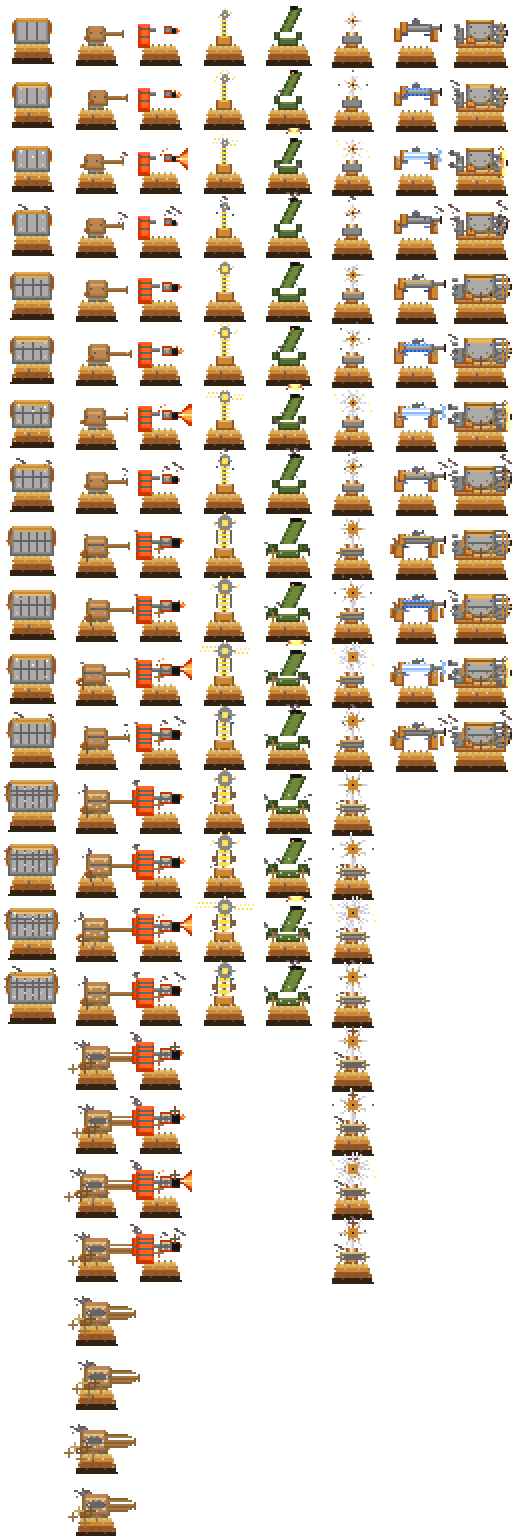
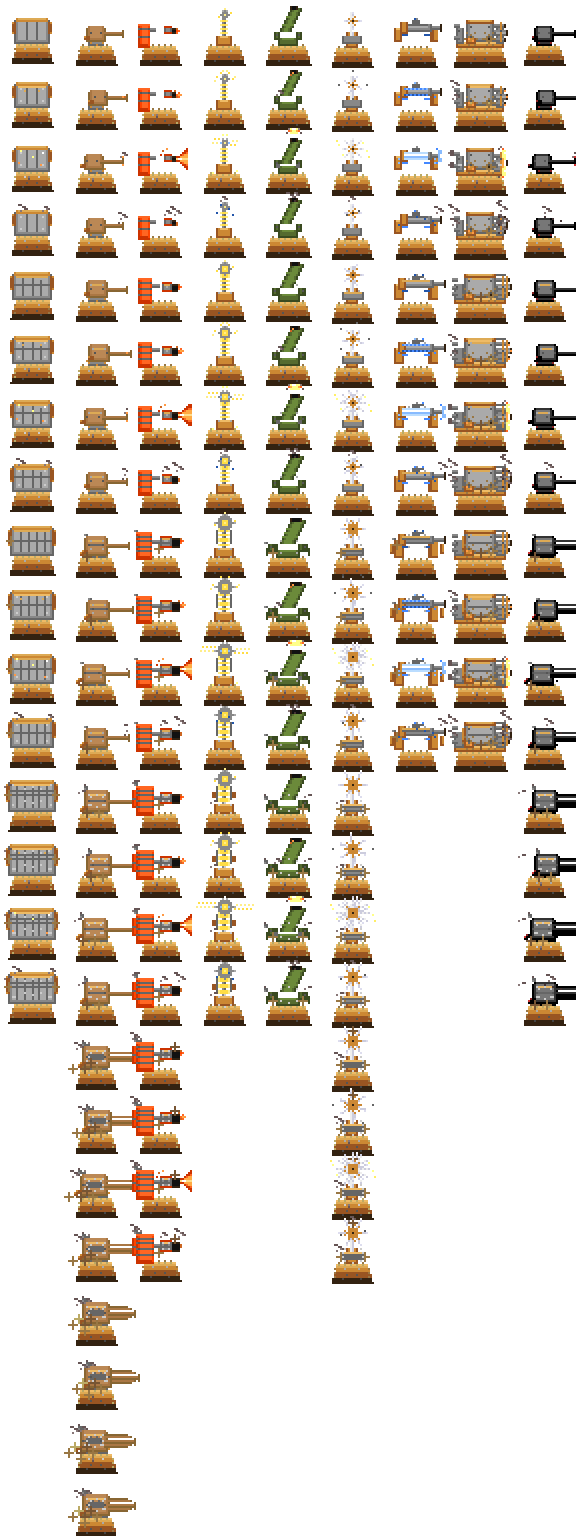
Generate Piercer sprite: black-barrel turret variant
Programmatic art for the mech_piercer (Turret L2 AP branch). Same
silhouette as the Turret but with blackened barrel, dark steel
housing, and red-hot muzzle ring at L2+. 4 levels (tower L2-L5).

Regenerated mechanical_towers.png as 9 columns (was 8); expanded
the gilded and factory_fresh skin variants with the piercer column
(black art is skin-neutral).

diff --git a/mechanical_sprites.tsx b/mechanical_sprites.tsx
@@ -153,8 +153,8 @@ function mSteam(p:any,x:number,y:number,size:number){
 }
 
 // ===== TOWER LEVEL DATA =====
-// levels per tower: Wall=4, Turret=6, Flamethrower=5, Tesla=4, Mortar=4, Shredder=5, Railgun=3, Titan=3
-const T_LEVELS=[4,6,5,4,4,5,3,3];
+// levels per tower: Wall=4, Turret=6, Flamethrower=5, Tesla=4, Mortar=4, Shredder=5, Railgun=3, Titan=3, Piercer=4
+const T_LEVELS=[4,6,5,4,4,5,3,3,4];
 const T_MAX_LVL=6; // max across all towers → rows = T_MAX_LVL * 4 states = 24
 const T_ROWS_PER_LVL=4;
 const T_ROWS=T_MAX_LVL*T_ROWS_PER_LVL; // 24 rows total
@@ -740,11 +740,74 @@ export function drawTowers(ctx:CanvasRenderingContext2D){
         p(turX+2,turY+turH-2,C.DKSTL);p(turX+turW-3,turY+turH-2,C.DKSTL);
       }
     },
+    // 8: Piercer — Black-barrel armor-piercing turret (Turret L2 branch).
+    // Same silhouette as the Turret, but the barrel and accents are
+    // blackened steel instead of warm brown. Grows more menacing
+    // with level: longer black barrel, red-hot muzzle ring at L3+.
+    (c:any,o:number[],s:number,lvl:number)=>{const{p,b}=mk(c,o,T_G,T_G,T_PX);
+      const L=lvl;
+      mBase(p,b,23,20,s===1?1:s===2?2:0);
+      // Swivel mount base — dark steel, reinforced at higher levels
+      const mountW=6+Math.min(L-1,3)*1;const mountX=16-Math.floor(mountW/2);
+      b(mountX-1,18,mountW+2,5,C.VOID);b(mountX,18,mountW,4,C.DKGRAY);
+      b(mountX+1,18,mountW-2,1,C.GRAY);
+      // Rotation ring — dark with red markers
+      const ringR=4+Math.min(L-1,2);
+      for(let i=0;i<8;i++){const a=i*Math.PI/4;p(16+Math.round(Math.cos(a)*ringR),20+Math.round(Math.sin(a)*2),i%2?C.DKRED:C.VOID);}
+      // Piercer body — dark steel housing (blackened turret)
+      const rot=s===1?1:s===2?-1:0;
+      const tW=8+Math.min(L-1,4)*1;const tH=5+Math.min(L-1,3)*1;
+      const tX=16-Math.floor(tW/2)+rot;const tY=16-Math.floor(tH/2);
+      b(tX-1,tY,tW+2,tH+2,C.VOID);b(tX,tY,tW,tH+1,C.DKGRAY);b(tX+1,tY,tW-2,tH,C.GRAY);
+      // Top plate — black
+      b(tX,tY-1,tW,1,C.VOID);b(tX+1,tY-1,tW-2,1,C.DKGRAY);
+      lvlArmor(p,b,tX+1,tY+1,tW-2,tH-2,L);
+      // BLACK BARREL — longer and thicker at higher levels
+      const blen=(s===2?14:12)+Math.min(L-1,4)*1;
+      const barrelY=tY+Math.floor(tH/2);
+      // Additional black barrels at high levels
+      if(L>=3){
+        b(tX+tW+rot,barrelY-2,blen-2,1,C.VOID);b(tX+tW+rot,barrelY-2,blen-3,1,C.DKGRAY);
+        b(tX+tW+rot,barrelY+2,blen-2,1,C.VOID);b(tX+tW+rot,barrelY-2,blen-3,1,C.DKGRAY);
+      }
+      if(L>=4){
+        b(tX+tW+rot,barrelY-3,blen-4,1,C.VOID);
+        b(tX+tW+rot,barrelY+3,blen-4,1,C.VOID);
+      }
+      // Main black barrel
+      b(tX+tW+rot,barrelY,blen,2,C.VOID);b(tX+tW+rot,barrelY,blen,1,C.DKGRAY);
+      p(tX+tW+rot+blen-1,barrelY,C.GRAY);
+      // Muzzle — black with red-hot ring at L2+
+      const muzzleX=tX+tW+rot+blen-1;
+      b(muzzleX,barrelY-1,1,4,C.VOID);
+      if(L>=2){p(muzzleX,barrelY-1,C.DKRED);p(muzzleX,barrelY+2,C.DKRED);}
+      // Rivets on housing
+      lvlRivets(p,16+rot,tY+Math.floor(tH/2),L,3);
+      p(tX+1+rot,barrelY,C.RIVET);p(tX+tW-2+rot,barrelY,C.RIVET);
+      // Ammo belt — armor-piercing rounds (dark with red tips)
+      b(tX-2+rot,tY+tH-1,3,2,C.VOID);p(tX-2+rot,tY+tH-1,C.DKRED);
+      if(L>=3){b(tX-3+rot,tY+tH,2,2,C.VOID);p(tX-3+rot,tY+tH,C.RED);}
+      // Level 3+: exhaust
+      lvlExhaust(p,b,tX-1+rot,tY-2,L);
+      // Level 3+: gears
+      lvlGears(p,tX+rot,tY+tH+2,L);
+      if(s===2){
+        const mx=muzzleX+1;
+        p(mx,barrelY-1,C.WSPARK);p(mx,barrelY+1,C.WSPARK);p(mx+1,barrelY,C.SPARK);
+        p(mx-1,barrelY-2,C.RED);p(mx-1,barrelY+2,C.RED);
+        b(mx,barrelY,2,1,C.WHITE);mSteam(p,mx-2,barrelY-2,3);
+      }
+      if(s===3){
+        p(20,13,C.DKSMK);p(24,14,C.DKSMK);p(16,12,C.DKSMK);
+        mSteam(p,tX+tW-4,10,4);
+      }
+      lvlSteam(p,3,12,L);
+    },
   ];
-  // Layout: 24 rows × 8 cols
+  // Layout: 24 rows × 9 cols
   // For each tower (col), for each level (0..T_MAX_LVL-1), for each state (0..3)
   // Row = lvlIndex * 4 + state
-  const cols=8,rows=T_ROWS;
+  const cols=9,rows=T_ROWS;
   for(let col=0;col<cols;col++){
     const maxLvl=T_LEVELS[col];
     for(let lvlIdx=0;lvlIdx<T_MAX_LVL;lvlIdx++){
@@ -1431,7 +1494,7 @@ export function drawHero(ctx:CanvasRenderingContext2D){
 }
 
 // ===== LABELS =====
-const T_NAMES=['Wall','Turret','Flamethrower','Tesla','Mortar','Shredder','Railgun','Titan Cannon'];
+const T_NAMES=['Wall','Turret','Flamethrower','Tesla','Mortar','Shredder','Railgun','Titan Cannon','Piercer'];
 const T_STATES=['Idle','Charge','Fire','Cooldown'];
 const T_LVL_LABELS=Array.from({length:T_MAX_LVL},(_,i)=>`Lv${i+1}`);
 const P_NAMES=['Ricochet','Bullet','Flame','Lightning','Shell','Blade','Rail Beam','Titan Shell'];
